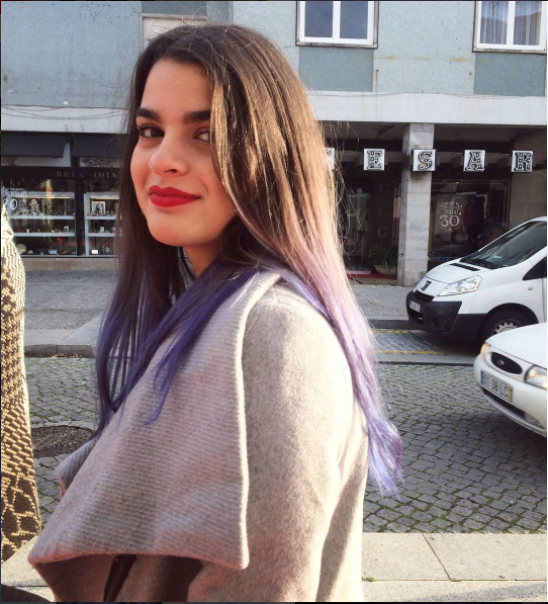
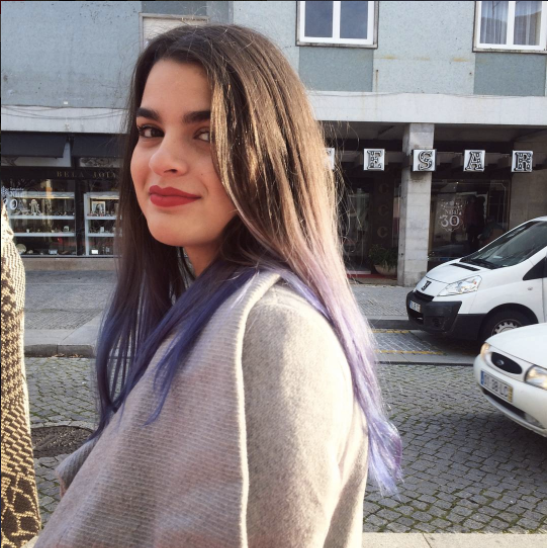
Changing members page

diff --git a/members.html b/members.html
@@ -75,15 +75,15 @@
       <!-- DIREÇÃO -->
       <div>
         <div class="row">
-          <div class='col-sm-3'><div class='team-member'><img src='img/members/Edgar Passos.jpg' class='img-responsive img-circle' alt=''><h4>Edgar Passos</h4><p class='text-muted'>Presidente</p></div></div>
+          <div class='col-sm-3'><div class='team-member'><img src='img/members/edgarpassos_cropped.jpg' class='img-responsive img-circle' alt=''><h4>Edgar Passos</h4><p class='text-muted'>Presidente</p></div></div>
 
-          <div class='col-sm-3'><div class='team-member'><img src='img/members/Bernardo Belchior.jpg' class='img-responsive img-circle' alt=''><h4>Bernardo Belchior</h4><p class='text-muted'>Vice-Presidente e Gestor de Projetos</p></div></div>
+          <div class='col-sm-3'><div class='team-member'><img src='img/members/bernardobelchior_cropped.jpg' class='img-responsive img-circle' alt=''><h4>Bernardo Belchior</h4><p class='text-muted'>Vice-Presidente e Gestor de Projetos</p></div></div>
 
-          <div class='col-sm-3'><div class='team-member'><img src='img/members/Nuno Ramos.jpg' class='img-responsive img-circle' alt=''><h4>Nuno Ramos</h4><p class='text-muted'>Vice-Presidente e Gestor de Eventos</p></div></div>
+          <div class='col-sm-3'><div class='team-member'><img src='img/members/nunoramos_cropped.jpg' class='img-responsive img-circle' alt=''><h4>Nuno Ramos</h4><p class='text-muted'>Vice-Presidente e Gestor de Eventos</p></div></div>
 
           <div class="col-sm-3">
             <div class="team-member">
-              <img src="img/members/Flávio Couto.jpg" class="img-responsive img-circle" alt="">
+              <img src="img/members/pedrocosta_cropped.jpg" class="img-responsive img-circle" alt="">
               <h4>Pedro Costa</h4>
               <p class="text-muted">Tesoureiro</p>
 
@@ -92,12 +92,8 @@
         </div>
         <div class="row">
           <div class='col-sm-3'></div>
-
-          <div class='col-sm-3'><div class='team-member'><img src='img/members/João Carvalho.jpg' class='img-responsive img-circle' alt=''><h4>João Carvalho</h4><p class='text-muted'>Secretário e Responsável pela Sala</p></div></div>
-
-
-          <div class='col-sm-3'><div class='team-member'><img src='img/members/Maria João Mira Paulo.jpg' class='img-responsive img-circle' alt=''><h4>Maria João Mira Paulo</h4><p class='text-muted'>Responsável pela Imagem e Comunicação</p></div></div>
-
+          <div class='col-sm-3'><div class='team-member'><img src='img/members/joaocarvalho_cropped.jpg' class='img-responsive img-circle' alt=''><h4>João Carvalho</h4><p class='text-muted'>Secretário e Responsável pela Sala</p></div></div>
+          <div class='col-sm-3'><div class='team-member'><img src='img/members/mariajoao_cropped.jpg' class='img-responsive img-circle' alt=''><h4>Maria João Mira Paulo</h4><p class='text-muted'>Responsável pela Imagem e Comunicação</p></div></div>
           <div class='col-sm-3'></div>
         </div>
       </div>
@@ -111,28 +107,27 @@
         <div class='col-lg-2 col-sm-2'><div class='team-member'><img src='img/members/Anaís Dias.jpg' class='img-responsive img-circle' alt=''><h4>Anaís Dias</h4><p class='text-muted'>Membro</p></div></div>
         <div class='col-lg-2 col-sm-2'><div class='team-member'><img src='img/members/Vânia Leite.jpg' class='img-responsive img-circle' alt=''><h4>Vânia Leite</h4><p class='text-muted'>Membro</p></div></div>
         <div class="clearfix"></div>
-        <div class='col-lg-2 col-sm-2'><div class='team-member'><img src='img/members/Edgar Passos.jpg' class='img-responsive img-circle' alt=''><h4>Edgar Passos</h4><p class='text-muted'>Membro</p></div></div>
         <div class='col-lg-2 col-sm-2'><div class='team-member'><img src='img/members/Pedro Silva.jpg' class='img-responsive img-circle' alt=''><h4>Pedro Silva</h4><p class='text-muted'>Membro</p></div></div>
         <div class='col-lg-2 col-sm-2'><div class='team-member'><img src='img/members/João Soares.png' class='img-responsive img-circle' alt=''><h4>João Soares</h4><p class='text-muted'>Membro</p></div></div>
         <div class='col-lg-2 col-sm-2'><div class='team-member'><img src='img/members/Gustavo Silva.jpg' class='img-responsive img-circle' alt=''><h4>Gustavo Silva</h4><p class='text-muted'>Membro</p></div></div>
         <div class='col-lg-2 col-sm-2'><div class='team-member'><img src='img/members/José Oliveira.jpg' class='img-responsive img-circle' alt=''><h4>José Oliveira</h4><p class='text-muted'>Membro</p></div></div>
         <div class='col-lg-2 col-sm-2'><div class='team-member'><img src='img/members/André Lago.jpg' class='img-responsive img-circle' alt=''><h4>André Lago</h4><p class='text-muted'>Membro</p></div></div>
-        <div class="clearfix"></div>
         <div class='col-lg-2 col-sm-2'><div class='team-member'><img src='img/members/Vítor Teixeira.jpg' class='img-responsive img-circle' alt=''><h4>Vítor Teixeira</h4><p class='text-muted'>Membro</p></div></div>
+        <div class="clearfix"></div>
         <div class='col-lg-2 col-sm-2'><div class='team-member'><img src='img/members/Jorge Teixeira.jpg' class='img-responsive img-circle' alt=''><h4>Jorge Teixeira</h4><p class='text-muted'>Membro</p></div></div>
         <div class='col-lg-2 col-sm-2'><div class='team-member'><img src='img/members/Gabriel Souto.jpg' class='img-responsive img-circle' alt=''><h4>Gabriel Souto</h4><p class='text-muted'>Membro</p></div></div>
         <div class='col-lg-2 col-sm-2'><div class='team-member'><img src='img/members/Ana Rita Ferreira.jpg' class='img-responsive img-circle' alt=''><h4>Ana Rita Ferreira</h4><p class='text-muted'>Membro</p></div></div>
         <div class='col-lg-2 col-sm-2'><div class='team-member'><img src='img/members/Nuno Castro.jpg' class='img-responsive img-circle' alt=''><h4>Nuno Castro</h4><p class='text-muted'>Membro</p></div></div>
         <div class='col-lg-2 col-sm-2'><div class='team-member'><img src='img/members/Filipe Coelho.jpg' class='img-responsive img-circle' alt=''><h4>Filipe Coelho</h4><p class='text-muted'>Membro</p></div></div>
-        <div class="clearfix"></div>
         <div class='col-lg-2 col-sm-2'><div class='team-member'><img src='img/members/João Bordalo.jpg' class='img-responsive img-circle' alt=''><h4>João Bordalo</h4><p class='text-muted'>Membro</p></div></div>
+        <div class="clearfix"></div>
         <div class='col-lg-2 col-sm-2'><div class='team-member'><img src='img/members/José Cardoso.jpg' class='img-responsive img-circle' alt=''><h4>José Cardoso</h4><p class='text-muted'>Membro</p></div></div>
         <div class='col-lg-2 col-sm-2'><div class='team-member'><img src='img/members/Pedro Castro.jpg' class='img-responsive img-circle' alt=''><h4>Pedro Castro</h4><p class='text-muted'>Membro</p></div></div>
         <div class='col-lg-2 col-sm-2'><div class='team-member'><img src='img/members/Pedro Fraga.png' class='img-responsive img-circle' alt=''><h4>Pedro Fraga</h4><p class='text-muted'>Membro</p></div></div>
         <div class='col-lg-2 col-sm-2'><div class='team-member'><img src='img/members/Beatriz Mendes.png' class='img-responsive img-circle' alt=''><h4>Beatriz Mendes</h4><p class='text-muted'>Membro</p></div></div>
         <div class='col-lg-2 col-sm-2'><div class='team-member'><img src='img/members/Miguel Duarte.jpg' class='img-responsive img-circle' alt=''><h4>Miguel Duarte</h4><p class='text-muted'>Membro</p></div></div>
-        <div class="clearfix"></div>
         <div class='col-lg-2 col-sm-2'><div class='team-member'><img src='img/members/Sérgio Domingues.jpg' class='img-responsive img-circle' alt=''><h4>Sérgio Domingues</h4><p class='text-muted'>Membro</p></div></div>
+        <div class="clearfix"></div>
         <div class='col-lg-2 col-sm-2'><div class='team-member'><img src='img/members/David Azevedo.jpg' class='img-responsive img-circle' alt=''><h4>David Azevedo</h4><p class='text-muted'>Membro</p></div></div>
       </div>
 
